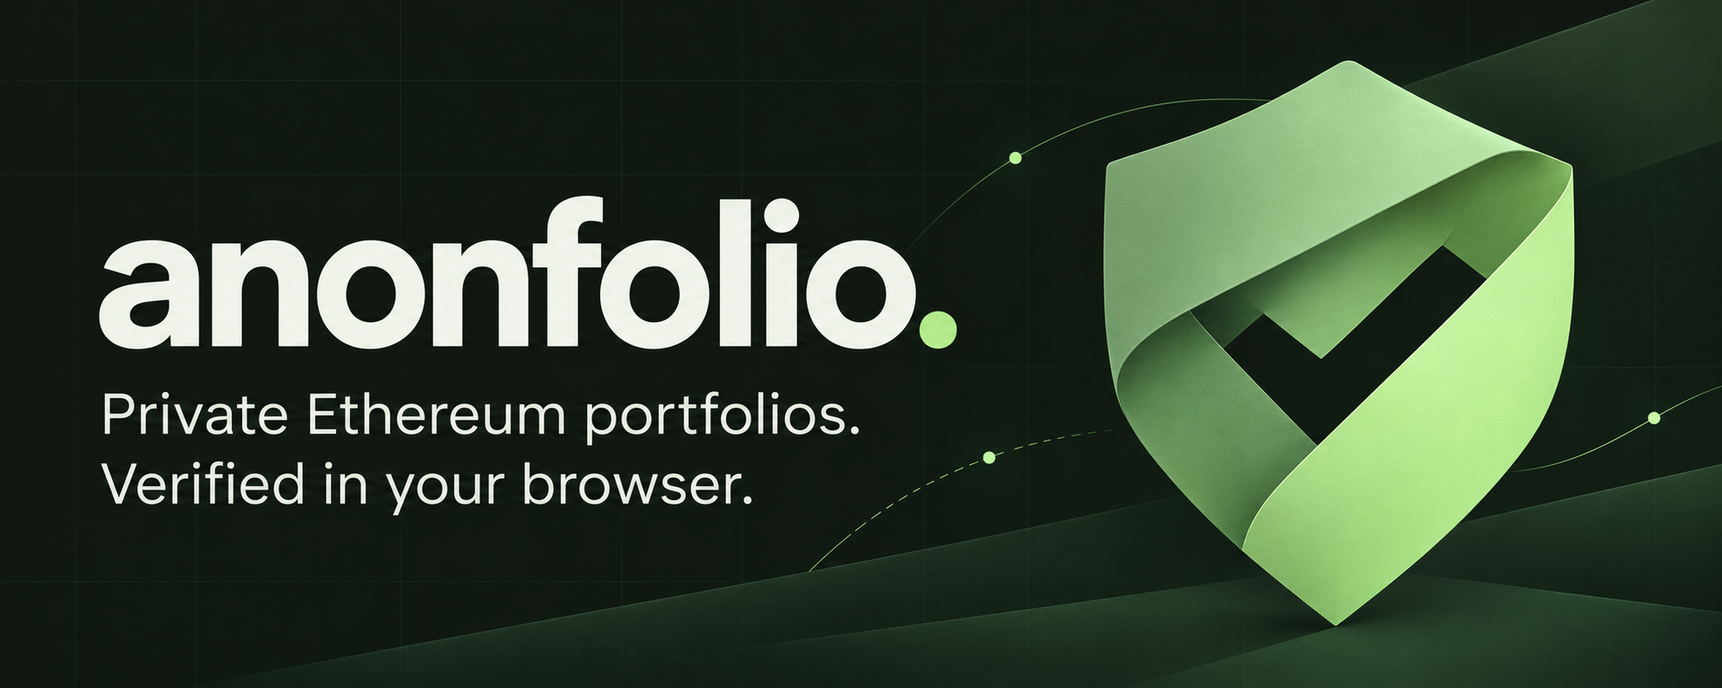
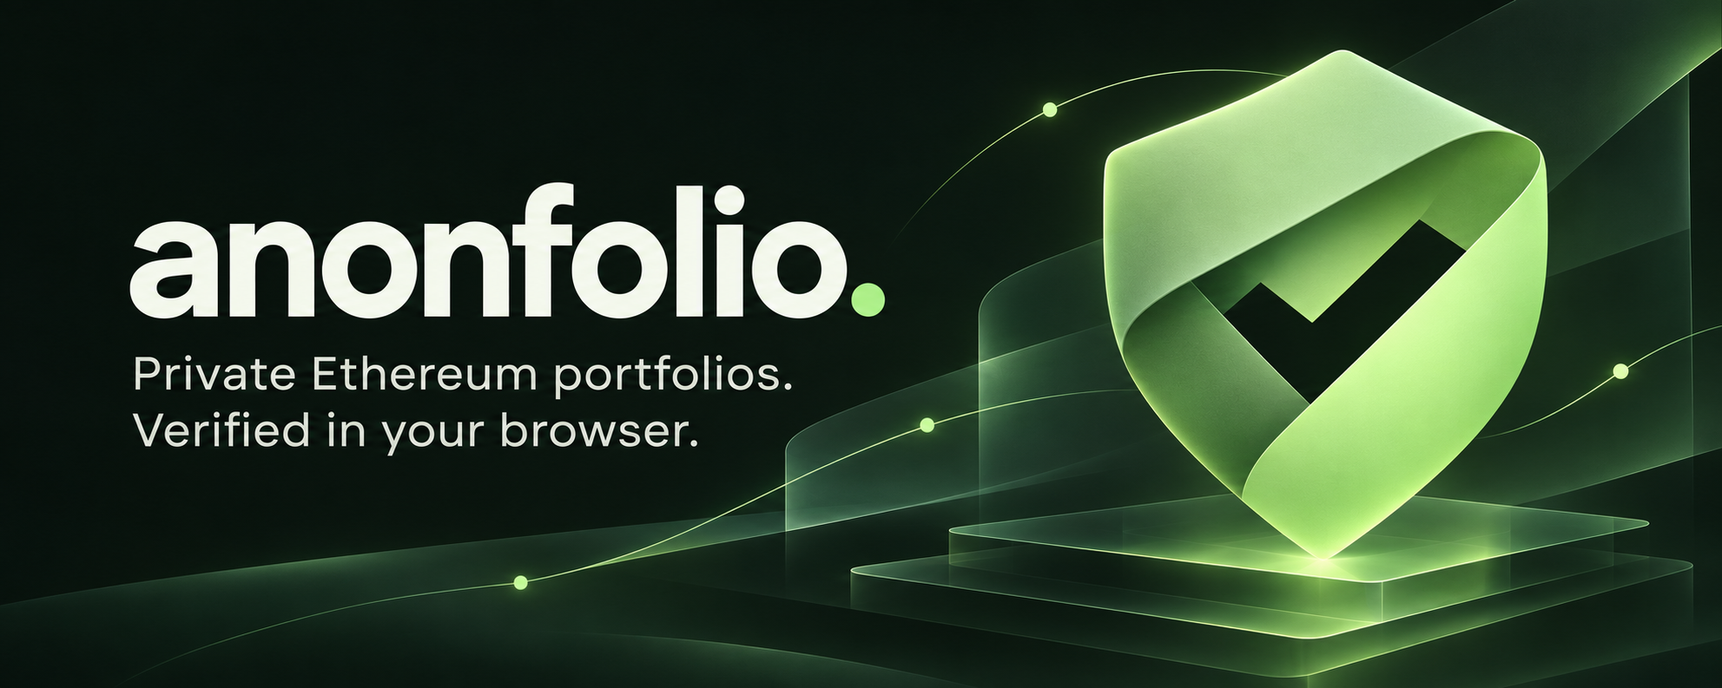
Refresh README cover and simplify project overview (#3)
* Refine README cover with dimensional shield artwork

* Shorten README to essential setup and project information

diff --git a/README.md b/README.md
@@ -2,42 +2,16 @@
 
 # Anonfolio
 
-An Ethereum mainnet portfolio reader that verifies balances in your browser. Track named addresses, ETH, WETH and custom ERC-20 tokens without connecting a wallet, signing messages or sending transactions.
+A browser-verified Ethereum mainnet portfolio tracker, built for IPFS. Track named addresses, ETH/WETH and custom ERC-20s without connecting a wallet.
 
-**Anonfolio will be hosted on IPFS** as a static, content-addressed application. Open it with an IPFS-capable browser or through an HTTPS IPFS gateway.
-
-<!-- ipfs-build -->
-**IPFS build:** [ipfs://bafybeid27ry4lwzkc7mjc66ty3tzxyldscfghu2ura4knxukwz75hm6ddi/](ipfs://bafybeid27ry4lwzkc7mjc66ty3tzxyldscfghu2ura4knxukwz75hm6ddi/)
-
-This is the content address of the exported build validated with local IPFS gateways, not a guarantee that it is pinned on the public network. Updated releases have new CIDs.
-<!-- /ipfs-build -->
-
-**Tor via Anon-RPC is the default.** Each address uses its own isolation key. You can explicitly select **Direct HTTPS (not anonymous)** in Settings; providers then see your IP and requested addresses. A Tor failure never switches to HTTPS automatically.
+**Tor via Anon-RPC is the default.** Helios verifies balances locally against finalized Ethereum state. Optional **Direct HTTPS** exposes your IP to providers; the app never switches automatically.
 
 <!-- portfolio-screenshot -->
 ![Anonfolio tracking vitalik.eth, the Ethereum Foundation and Uniswap treasury with real ETH, WETH, USDC and UNI holdings.](docs/images/readme-portfolio.png)
 
 <!-- /portfolio-screenshot -->
 
-Explore the [10-image mainnet screenshot gallery](screenshots/README.md), featuring public DAO treasuries, custom ERC-20s, verification details and mobile layouts.
-
-## Technologies
-
-| Technology | How Anonfolio uses it |
-| --- | --- |
-| <img src="src/assets/technology/typescript.svg" width="24" height="24" alt=""> **[TypeScript](https://www.typescriptlang.org/)** | Application, transport and verification orchestration, using native HTML/CSS and browser DOM APIs. No frontend framework. |
-| <img src="src/assets/technology/bun.svg" width="24" height="24" alt=""> **[Bun](https://bun.sh/)** | Package management, scripts, unit tests and the simple static web server. Baseline: **1.3.14**. |
-| <img src="src/assets/technology/vite.svg" width="24" height="24" alt=""> **[Vite](https://vite.dev/)** | Development server and production bundling of the page, workers and local assets. |
-| <img src="src/assets/technology/tor.svg" width="40" height="24" alt=""> **[Tor](https://www.torproject.org/) · [Anon-RPC](https://github.com/ethereum/anon-rpc) · [tor-js](https://github.com/ethereum/tor-js)** | Private execution and consensus requests through `@anon-rpc/browser-harness`, Tor and WebRTC/KPS gateways. |
-| **[Helios](https://github.com/a16z/helios) · WebAssembly · revm** | A shared consensus light client and local EVM execution with verified account/storage proofs and bytecode. Reviewed Helios **0.12.0**, including PR #813 fixes. |
-| <img src="src/assets/tokens/eth.png" width="24" height="24" alt=""> **[Ethereum](https://ethereum.org/)** | Mainnet ETH, WETH and ERC-20 balances, pinned to a verified finalized block for each refresh. |
-| <img src="src/assets/technology/viem.png" width="24" height="24" alt=""> **[viem](https://viem.sh/) · [EthereumJS Trie](https://github.com/ethereumjs/ethereumjs-monorepo/tree/master/packages/trie)** | Address and ABI utilities, bigint unit formatting, and additional Merkle-proof checks. |
-| <img src="src/assets/technology/uniswap.svg" width="24" height="24" alt=""> **[Uniswap v3](https://docs.uniswap.org/contracts/v3/overview)** | Estimated holding values from a 30-minute TWAP using one qualifying direct token/quote pool. USDC is the default quote. |
-| **Browser APIs** | Web Workers, Web Crypto, localStorage, Web Locks and a service worker for isolation, integrity checks, safe cross-tab saving and offline application assets. |
-| <img src="src/assets/technology/playwright.svg" width="24" height="24" alt=""> **[Playwright](https://playwright.dev/)** | Chromium UI, layout, routing, offline and opt-in real-provider smoke tests. |
-| <img src="src/assets/technology/ipfs.svg" height="24" alt=""> **[IPFS / Kubo](https://docs.ipfs.tech/) · [Docker](https://www.docker.com/)** | IPFS hosting, CID validation and CAR exports. Neither is needed to run the app locally. |
-
-Logos identify their technologies, not endorsements. See [artwork sources and credits](src/assets/technology/README.md). The app uses the Tor logo for Tor mode, Ethereum's mark for the network, and Uniswap's mark for price methodology. All runtime artwork is local and works offline.
+[More screenshots](screenshots/README.md)
 
 ## Run locally
 
@@ -48,123 +22,63 @@ bun install --frozen-lockfile
 bun run dev
 ```
 
-Open **http://127.0.0.1:5173**. Development binds to loopback and serves the pinned Tor worker as unchanged bytes; its integrity check stays enabled.
-
-To build and serve the production page:
+Open **http://127.0.0.1:5173**. To build and serve the production app:
 
 ```sh
 bun run build
 bun run serve
 ```
 
-Open **http://localhost:4173**. Set `HOST` and `PORT` to change the static server's bind address and port. It serves only `dist/`; it is not an RPC proxy.
+Open **http://localhost:4173**.
 
-The committed lockfile uses format version 1 for Bun 1.3.14 compatibility. Bun 1.4.x can install with `--frozen-lockfile`, but may rewrite the format during dependency changes. If you encounter “Unknown lockfile version,” restore the committed `bun.lock` and use the baseline Bun version.
+## Use
 
-## Track a portfolio
+- Click **+** to add one or more addresses. Manage tokens, icons, pricing and network settings with the top-right gear.
+- Refresh each address independently. Saved balances reopen without automatic refresh; failed reads retain previous values with stale indicators.
+- View token totals and 30-minute Uniswap v3 TWAP estimates in USDC or a custom quote token. Assets without a qualifying direct pool stay unpriced, and totals are marked partial.
 
-- Click **+** below the addresses to add an address or a list. Give one address an optional name, or paste named lines such as `Savings | 0x…`. Validation happens locally.
-- Open the top-right **Settings** gear to manage tracked tokens, optional PNG/JPEG/WebP icons, quote-token pricing and network settings. ETH and WETH are included by default and use the same token controls as custom assets. Token decimals are user-supplied; the app does not call `decimals()`.
-- Use the refresh button next to an address to update that address. Newly added addresses receive an initial read. Reopening the page shows saved balances and prices without automatically refreshing them.
-- The overview sums holdings across addresses. Values use bigint arithmetic and display at most two decimals; tiny positive values display as `<0.01`. Current proven zero holdings are omitted from address rows. Unknown values are not treated as zero; cached or failed values remain visible with stale/unavailable indicators.
-- Expand an address with its chevron for read times, verification progress, timestamped request logs and error details. **Remove address** is inside that view and requires confirmation.
+The default Tor gateway is a development demo. A recent trusted checkpoint and compatible RPC endpoints are required; see [network and trust setup](docs/documentation.html#configuration-builds-and-publishing).
 
-Addresses, names, token settings, icons, balances and quotes remain in browser storage. Open tabs synchronize without starting reads; shared Web Locks serialize saves and merge edits so stale tabs cannot overwrite additions or resurrect removals. Safe persistence needs a current browser on HTTPS or localhost with Web Locks. Storage failures show a warning while the in-memory session remains usable.
+## Technologies
 
-## How reads and estimates work
+| Technology | Role |
+| --- | --- |
+| <img src="src/assets/technology/bun.svg" height="22" alt=""> [Bun](https://bun.sh/) · <img src="src/assets/technology/vite.svg" height="22" alt=""> [Vite](https://vite.dev/) · <img src="src/assets/technology/typescript.svg" height="22" alt=""> [TypeScript](https://www.typescriptlang.org/) | Static UI, builds and local tooling. |
+| <img src="src/assets/technology/tor.svg" height="22" alt=""> [Tor](https://www.torproject.org/) · [Anon-RPC](https://github.com/ethereum/anon-rpc) | Private requests with per-address isolation. |
+| [Helios 0.12.0](vendor/helios/README.md) · WebAssembly/revm · EthereumJS Trie | Consensus, proofs and local contract execution. |
+| <img src="src/assets/tokens/eth.png" height="22" alt=""> [Ethereum](https://ethereum.org/) · <img src="src/assets/technology/viem.png" height="22" alt=""> [viem](https://viem.sh/) | Mainnet data, ABI utilities and bigint arithmetic. |
+| <img src="src/assets/technology/uniswap.svg" height="22" alt=""> [Uniswap v3](https://docs.uniswap.org/contracts/v3/overview) | Direct-pool TWAP price estimates. |
+| <img src="src/assets/technology/ipfs.svg" height="22" alt=""> [IPFS/Kubo](https://docs.ipfs.tech/) · Docker | Static publishing, CID checks and CAR exports. |
+| <img src="src/assets/technology/playwright.svg" height="22" alt=""> [Playwright](https://playwright.dev/) | Browser tests. |
 
-1. Start the selected transport. Tor startup uses bundled, hash-pinned worker data, not an Ethereum RPC discovery request. Each watched address receives a random isolation key; shared consensus uses a separate route.
-2. Helios bootstraps from a trusted mainnet checkpoint and verifies consensus. Each refresh selects one verified finalized execution block.
-3. Prove ETH with `eth_getProof`. Execute ERC-20 `balanceOf(address)` locally against verified bytecode and storage, including proxy dependencies. Invalid proofs, wrong wallets/blocks, missing requested slots and tampered code fail closed.
-4. In parallel, read Uniswap factory/pool data through the same verified local-call path at that block. Join a price to a holding only after its balance is proven at the matching block, then save each result with its block identity and timestamp.
-
-Pricing uses **exactly one direct token/quote pool**, validated against the canonical v3 factory, with at least 30 minutes of history and sufficient current/harmonic liquidity. There are no multihop routes, spot-price fallbacks or external pricing APIs. ETH and WETH both use the WETH/USDC **0.05%** pool when USDC is selected. Tokens without a qualifying direct pool remain unpriced, making totals partial. Estimates are historical reference values, not executable trade quotes.
-
-Two balance jobs and two pricing jobs can overlap within one address session. Different addresses queue through the shared verifier. Requests retain the address's isolation key across retries; RPC batches containing different addresses are forbidden. Removing an address or leaving the page cancels queued/active verification, aborts requests and ignores late messages.
-
-Prices are shared across addresses in the running verifier. ETH and WETH use the same WETH quote: one successful lookup is reused for every address at the same finalized block and pricing settings. The first lookup needs several verified factory/pool calls, not just one HTTP request. A different finalized block requires a new quote, and restarting the verifier clears its in-memory oracle cache. Logs distinguish a new lookup from reuse.
-
-Temporary pricing failures retry automatically for affected holdings on their existing route, even if balance verification succeeded. The retry verifies those holdings and prices together at its selected finalized block. Missing direct pools and other permanent pricing failures remain unpriced without endless retries. Error details survive reload, but reopening the app still does not start reads automatically. Tabs synchronize quote settings without starting network reads; each requested refresh keeps one pricing-settings snapshot. If pricing changes while an address is loading, one full follow-up refresh uses the newest settings even if the older attempt fails. A late result cannot replace a holding from a newer verified block.
-
-The [illustrated system guide](docs/documentation.html) covers the architecture, flowcharts, networking, verification, pricing, cache formats, retries and deployment in detail. It opens directly from disk or at **`/docs/documentation.html`** on either server.
-
-The [Uniswap developer feedback](FEEDBACK.md) records integration feedback and requested improvements for Uniswap documentation.
-
-The [technical presentation](docs/presentation.html) is a self-contained 16-slide deck covering the project, technology stack, worker messages, Tor/KPS networking, consensus and account/storage proofs, local ERC-20 execution, and shared Uniswap pricing. Open it directly from disk or at **`/docs/presentation.html`**. A [PDF copy](docs/presentation.pdf) is also included. Use arrow keys to present, **Notes** for speaker detail, **All slides** to read continuously, or **Print / PDF** to export. Logos, diagrams and the demonstration screenshot are embedded; the deck sends no network requests unless you follow a reference link.
-
-After editing the slides, regenerate the committed PDF with `UPDATE_PRESENTATION_PDF=1 bun run test:browser e2e/presentation.spec.ts --grep "self-contained presentation"`, then rebuild. The test checks a 16-page PDF export. The production build includes both formats; the service worker caches each when requested, so open/download the desired format online before relying on it offline.
-
-## Privacy, trust and configuration
-
-**Tor mode:** consensus, balance proofs, bytecode and price-oracle requests go through Anon-RPC. RPC providers see the addresses they serve, while Tor hides the browser's IP from them. Per-address isolation does not guarantee different Tor exit nodes. No analytics, remote icon services, external fonts or addresses in page URLs are used.
-
-**Direct HTTPS mode:** verification remains enabled, but execution and consensus requests use ordinary browser fetch. The header explicitly identifies this as non-anonymous. There is no automatic switch between modes.
-
-In **Settings → Network connection**, configure gateways and HTTPS RPC endpoints. Defaults start with dRPC, followed by PublicNode and Ankr. Operators must support historical proofs at the selected finalized block. Explicit proof-history rejections can try another configured operator with the same isolation key and block; other transport or verification failures fail closed.
-
-The default is one development demo gateway; live Tor retrieval depends on gateway, WebRTC/UDP, Tor and provider availability. Deployment defaults can be set with `VITE_ANON_GATEWAYS`, `VITE_RPC_URLS` and `VITE_TOR_BOOTSTRAP_URL`. See [gateway deployment and directory mirrors](deploy/tor-gateways/README.md).
-
-The consensus checkpoint must be less than 14 days old. **Settings → Consensus checkpoint** accepts a root and matching slot checked against independent trusted mainnet sources. Never replace it merely with an untrusted RPC's suggested value.
-
-**Update Tor worker from PublicNode** is an explicit recovery action: it queries PublicNode and downloads a worker directly, without sending watched addresses. Applying it trusts PublicNode's selected worker code/digest instead of the reviewed bundled pin. Failed updates keep the existing worker. Runtime settings cannot change the pinned Helios binary.
-
-Browser storage is not encrypted: someone with access to that origin's storage can read saved addresses and any API keys in configured endpoint URLs. The app caches application assets for offline reopening, never RPC responses. Saved balances can be shown offline; retrieving new values still requires a working connection.
+[Artwork credits](src/assets/technology/README.md)
 
 ## Tests
 
 ```sh
-bun run test                 # unit, proof, transport, storage and build-input regressions
-bun run typecheck
-bun audit                    # dependency advisories
 bunx playwright install chromium
-bun run test:browser         # deterministic Chromium tests
-bun run test:all             # unit tests, build, browser tests and static/offline checks
-bun run test:live:https      # real verified ETH/WETH using explicitly selected HTTPS
-bun run test:live            # real Tor/Helios balance and pricing smoke test
+bun run test:all
 ```
 
-Examples below using `NAME=value command` use POSIX shell syntax. In PowerShell, set `$env:NAME = 'value'` before running the command and remove it afterward with `Remove-Item Env:NAME`. The package commands such as `bun run test:ipfs` work directly in PowerShell.
+For real-provider tests, Windows setup and screenshot regeneration, see the [testing guide](docs/documentation.html#testing-and-maintenance).
 
-To recreate the README, guide and presentation images from their saved, verified three-address mainnet snapshot:
+## IPFS deployment
+
+Publish the complete `dist/` directory to IPFS, preferably through an HTTPS subdomain gateway. Each release has an immutable CID; a new CID/origin does not automatically carry over saved portfolios.
+
+<!-- ipfs-build -->
+**IPFS build:** [ipfs://bafybeid27ry4lwzkc7mjc66ty3tzxyldscfghu2ura4knxukwz75hm6ddi/](ipfs://bafybeid27ry4lwzkc7mjc66ty3tzxyldscfghu2ura4knxukwz75hm6ddi/)
+
+Locally validated export; public availability requires pinning.
+<!-- /ipfs-build -->
 
 ```sh
-UPDATE_SCREENSHOTS=1 bun run test:browser e2e/published-screenshots.spec.ts
-bun scripts/sync-screenshot-docs.ts
-UPDATE_PRESENTATION_PDF=1 bun run test:browser e2e/presentation.spec.ts --grep "self-contained presentation"
+bun run test:ipfs   # native Kubo + Chromium; no Unix shell or Docker needed
+bun run ui:docker   # Docker publishing through a reachable Kubo API
 ```
 
-Use `SCREENSHOT_LIVE=1` instead of `UPDATE_SCREENSHOTS=1` for a fresh mainnet capture through the real Helios verifier in explicit HTTPS mode. This updates the saved snapshot and both images; run the synchronization and PDF commands shown above to update the captions and presentation. See [documentation screenshot provenance](docs/images/README.md). The separate [ten-image gallery](screenshots/README.md) includes the ENS DAO treasury and ENS token, with its own per-image snapshots. Regenerate it with fresh mainnet data using:
+See [publishing](docs/documentation.html#configuration-builds-and-publishing) and [gateway deployment](deploy/tor-gateways/README.md).
 
-```sh
-SCREENSHOT_GALLERY=1 bun run test:browser e2e/screenshot-gallery.spec.ts
-```
+## Documentation
 
-Live tests are opt-in and depend on external services. To exercise a production build, build and start `bun run serve`, then set `BASE_URL=http://127.0.0.1:4173` when running the live command. `LIVE_BALANCE_RPC` can select an operator for the smoke test.
-
-Tests cover wrong-wallet/block proofs, omitted nonzero storage slots, bytecode tampering, private-route escapes, cancellation and late replies, response-size limits, concurrent tab edits, quote ordering/decimals/history, queued refreshes after failures, zero balances, offline cache scope isolation and loading layout stability. The IPFS regression tests exercise shell-free Kubo invocation, paths containing spaces, binary CAR output, CID mismatches and failed exports. CI runs the deterministic suite on Ubuntu with locked installs on Bun 1.3.14 and 1.4.3; live mainnet captures and real Kubo integration are opt-in, and the Windows IPFS path has not been validated on a native Windows runner. Failed browser checks retain screenshots and traces.
-
-## IPFS hosting and static HTTPS deployment
-
-Anonfolio is intended to reside on IPFS. Each release contains the complete **`dist/`** directory, identified by an immutable CID. Updating the app produces a new CID; publish and pin that release to keep it available. IPFS delivers the application files; Ethereum requests still use Anon-RPC/Tor by default, or Direct HTTPS when explicitly selected. IPFS hosting alone does not anonymize requests.
-
-For ordinary browsers, use an HTTPS IPFS gateway so browser security features remain available. The same build can also be uploaded to a static HTTPS host. No application backend or wallet extension is required. For a subdirectory, build with `bun run build --base=/your-path/`. Serve `sw.js` with revalidation/no-cache so browsers can discover updates. The service worker installs the small UI shell first; verifier runtimes and documentation are cached when requested. Cache cleanup is scoped to the application path, so sibling and nested IPFS releases on one gateway keep separate offline shells. Visited documentation remains available offline. Cached pages return after three seconds if the host is too slow.
-
-Build, publish and verify IPFS releases:
-
-```sh
-bun run ui:docker            # build the image and publish through a reachable Kubo API
-bun run test:ipfs            # isolated Kubo/CAR/path + subdomain gateway checks; needs Kubo
-```
-
-`bun run test:ipfs` runs natively on Windows, macOS and Linux with Bun, Kubo and Playwright Chromium; no `sh`, Git Bash, WSL or Docker is required for this check. Install Chromium with `bunx playwright install chromium`. Put `ipfs`/`ipfs.exe` on your `PATH`, or set `IPFS_BIN` to its executable path. For example, in PowerShell:
-
-```powershell
-$env:IPFS_BIN = 'C:\tools\kubo\ipfs.exe'
-bun run test:ipfs
-```
-
-The local check invokes Kubo directly and streams binary CAR bytes to disk. The `.sh` publishing/export entry points are used inside the Linux Docker image.
-
-`IPFS_API_MULTIADDR` selects the publisher's Kubo API; the Docker default is `/dns4/host.docker.internal/tcp/5001`. The publisher checks the uploaded CID against the build CID. `scripts/export-ipfs.sh` produces `anonfolio.car` and `ipfs-cid.txt`. Use `ipfs://<CID>/` with that exported CID; a content address alone does not guarantee public availability. `bun run test:ipfs` also writes these artifacts under `ipfs-artifacts/`, using an isolated local node without publishing them to the public network. See the [publishing section of the guide](docs/documentation.html#configuration-builds-and-publishing) and [IPFS workflow template](.github-workflows/ipfs-deploy.yml) for export/release details. Enabling that template requires credentials with workflow-write permission.
-
-Prefer an IPFS subdomain gateway for a separate browser origin per CID. Path gateways can share storage origins with other content; changing CIDs/subdomains does not migrate saved portfolios automatically.
+[System guide](docs/documentation.html) · [Technical slides](docs/presentation.html) · [PDF](docs/presentation.pdf) · [Uniswap feedback](FEEDBACK.md)

diff --git a/src/assets/branding/README.md b/src/assets/branding/README.md
@@ -12,19 +12,26 @@ Use case: logo-brand. Asset type: one finished application icon for Anonfolio, a
 
 ## README cover
 
-[`docs/images/anonfolio-cover.png`](../../../docs/images/anonfolio-cover.png) is an original wide cover illustration generated with the built-in image-generation tool on November 6, 2026. It uses the existing forest/mint palette and folded-shield motif. The original 1983 × 793 PNG is copied unchanged into the repository and appears before the README title. It is brand artwork, not an application screenshot or a display of portfolio data.
+[`docs/images/anonfolio-cover.png`](../../../docs/images/anonfolio-cover.png) is the redesigned README cover, generated with the built-in image-generation tool on November 6, 2026. It replaces the earlier grid-backed banner while retaining the exact wordmark, tagline, forest/mint palette, and folded shield/check identity. The cover adds more deliberate typography, dimensional shield lighting, translucent proof-like layers, and flowing private-routing paths.
+
+The generated 1983 × 793 opaque PNG is copied unchanged into the repository and remains the first image in the README. The prior cover and the original application icon were supplied as visual references. This is brand illustration, not an application screenshot, network diagram, or display of portfolio data. The original cover remains available in Git history.
 
 ### Cover generation prompt
 
 ```text
-Use case: ads-marketing
-Asset type: finished wide GitHub README cover image for Anonfolio, an existing Ethereum portfolio application.
-Primary request: create a polished, restrained, professional cover illustration with integrated typography, approximately 2.5:1 landscape banner composition, about 1800 by 720 pixels. This is a cover, not a screenshot or interface mockup.
-Scene/backdrop: very dark forest green #101510, subtle architectural depth and a barely visible technical grid. Elegant editorial technology branding.
-Subject: an original large folded mint-green shield/check emblem representing private requests and locally verified balances, constructed from two broad interlocking sage and mint ribbons with a check-shaped negative-space opening. A few clean curved paths and tiny nodes suggest private routing and cryptographic proofs. Keep these abstract and sparse. Complement the project's existing folded-shield brand.
-Composition: strong asymmetrical hierarchy suitable for a wide README banner: large, carefully typeset lowercase wordmark and short subtitle in generous negative space; dimensional shield illustration balances the other half. Keep every text line comfortably inside the image with broad safe margins, large enough to read when displayed at 900 pixels wide.
-Style/medium: sophisticated geometric digital illustration, crisp forms, matte folded surfaces, restrained depth, soft mint light on forest background, no glossy cyberpunk aesthetic.
-Palette: pale mint #b8ec8c, sage green, off-white #eef4e9, deep forest #101510. High contrast text.
-Text (verbatim, no other text): "anonfolio." as the dominant wordmark in a clean bold modern sans serif. Beneath it, smaller and lighter: "Private Ethereum portfolios." and on the next line "Verified in your browser."
-Constraints: exactly one finished wide cover image. No fabricated dashboard, charts, balances, wallet addresses, token prices, people, third-party logos, generic padlocks, stock-photo objects, border, watermark, extra writing, tiny decorative text, oversaturated glow, gradients obscuring text, or clutter. Preserve clear reading order and visual calm. Opaque full-bleed background.
+Use case: ads-marketing.
+Asset type: a finished, premium wide GitHub README cover for Anonfolio, approximately 2400 × 960, 2.5:1 landscape.
+Input images: Image 1 is the current cover to redesign. Image 2 is the existing application icon and the authoritative brand-shape reference.
+Primary request: make a substantially more art-directed, memorable successor to the current cover. Preserve the exact project name, tagline, forest/mint identity, and folded shield/check silhouette, but rebuild the composition and illustration with a sophisticated visual idea about private routes becoming verified state.
+Scene/backdrop: near-black forest green #0c140f. A luminous but restrained architectural space with beautifully lit translucent layers. Eliminate the generic all-over square grid. Use fine orbital routing curves and a few precise nodes as intentional structural elements.
+Subject: on the right, a beautifully crafted monumental version of the reference folded shield, in pale mint and brushed sage, above a low dark glass plinth made of a few stacked translucent proof-like planes. Thin green routes curve around and behind the shield and resolve into orderly, crisp geometric layers. The shield's cut-out remains a single bold check-shaped negative space. Retain the original recognizable geometry rather than inventing a new logo.
+Style: high-end editorial technology art direction, exquisitely controlled three-dimensional lighting, fine material detail, precision, visual depth, velvety darks, soft rim light. Contemporary and original; neither a stock cybersecurity advertisement nor an overly glossy game render.
+Composition: use the existing banner's left text/right emblem reading order, but improve balance, spacing and depth. Text occupies about the left half, emblem fills the right half with ample breathing room. Keep a clean quiet area behind the type and broad safe margins on every edge. Shield must be fully inside frame. At GitHub's roughly 900px display width, wordmark and both tagline lines must read clearly.
+Typography: the wordmark is large and confident in a beautifully spaced lowercase geometric sans serif, warm off-white, with its final dot mint green. Tagline is smaller but easily legible and deliberately spaced beneath the wordmark. Avoid extreme boldness that overwhelms the illustration.
+Text, verbatim, and no other text:
+"anonfolio."
+"Private Ethereum portfolios."
+"Verified in your browser."
+Palette: forest #101510, near-black, pale mint #b8ec8c, muted sage, off-white #eef4e9. Restrained natural tonal gradients, excellent contrast. No purple or neon blue.
+Constraints: exactly one complete opaque full-bleed cover. Preserve spelling and punctuation. No fake application interface, invented balances, charts, wallet addresses, pseudo-code, crypto coins, token logos, padlocks, hooded figures, badges, frames, watermarks, additional text, excessive glow or visual clutter. This is brand illustration, not a screenshot.
 ```
